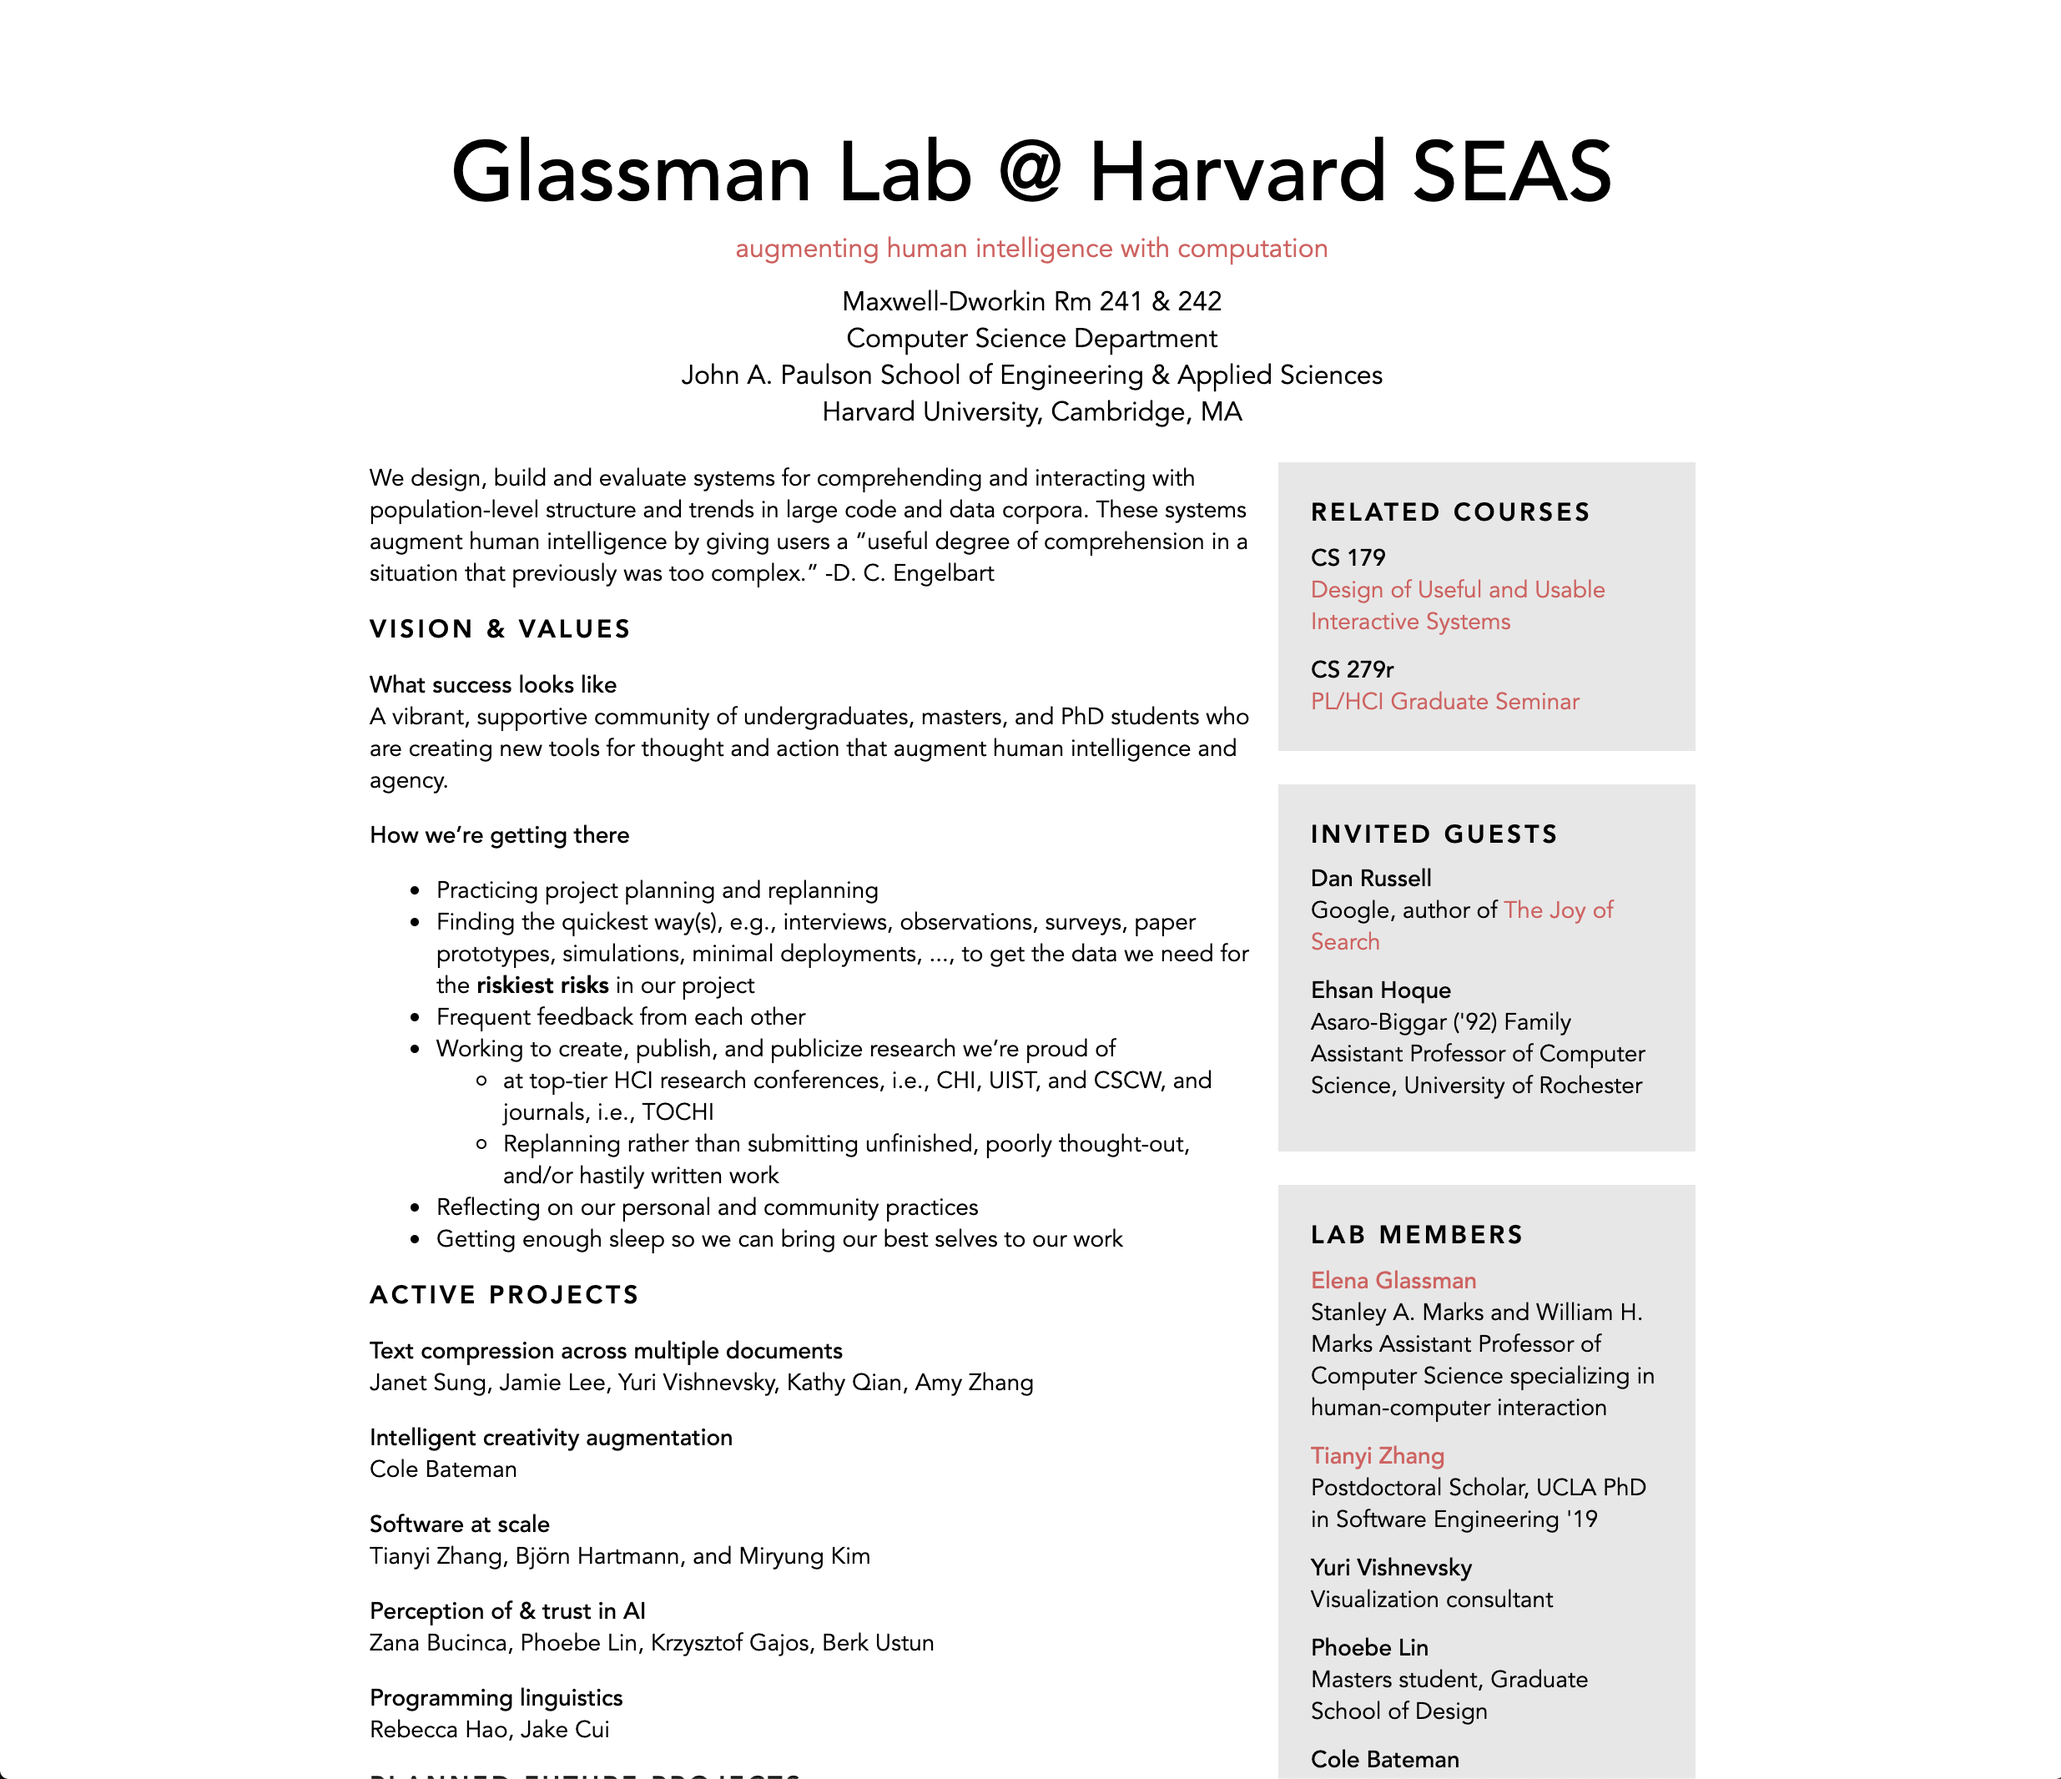
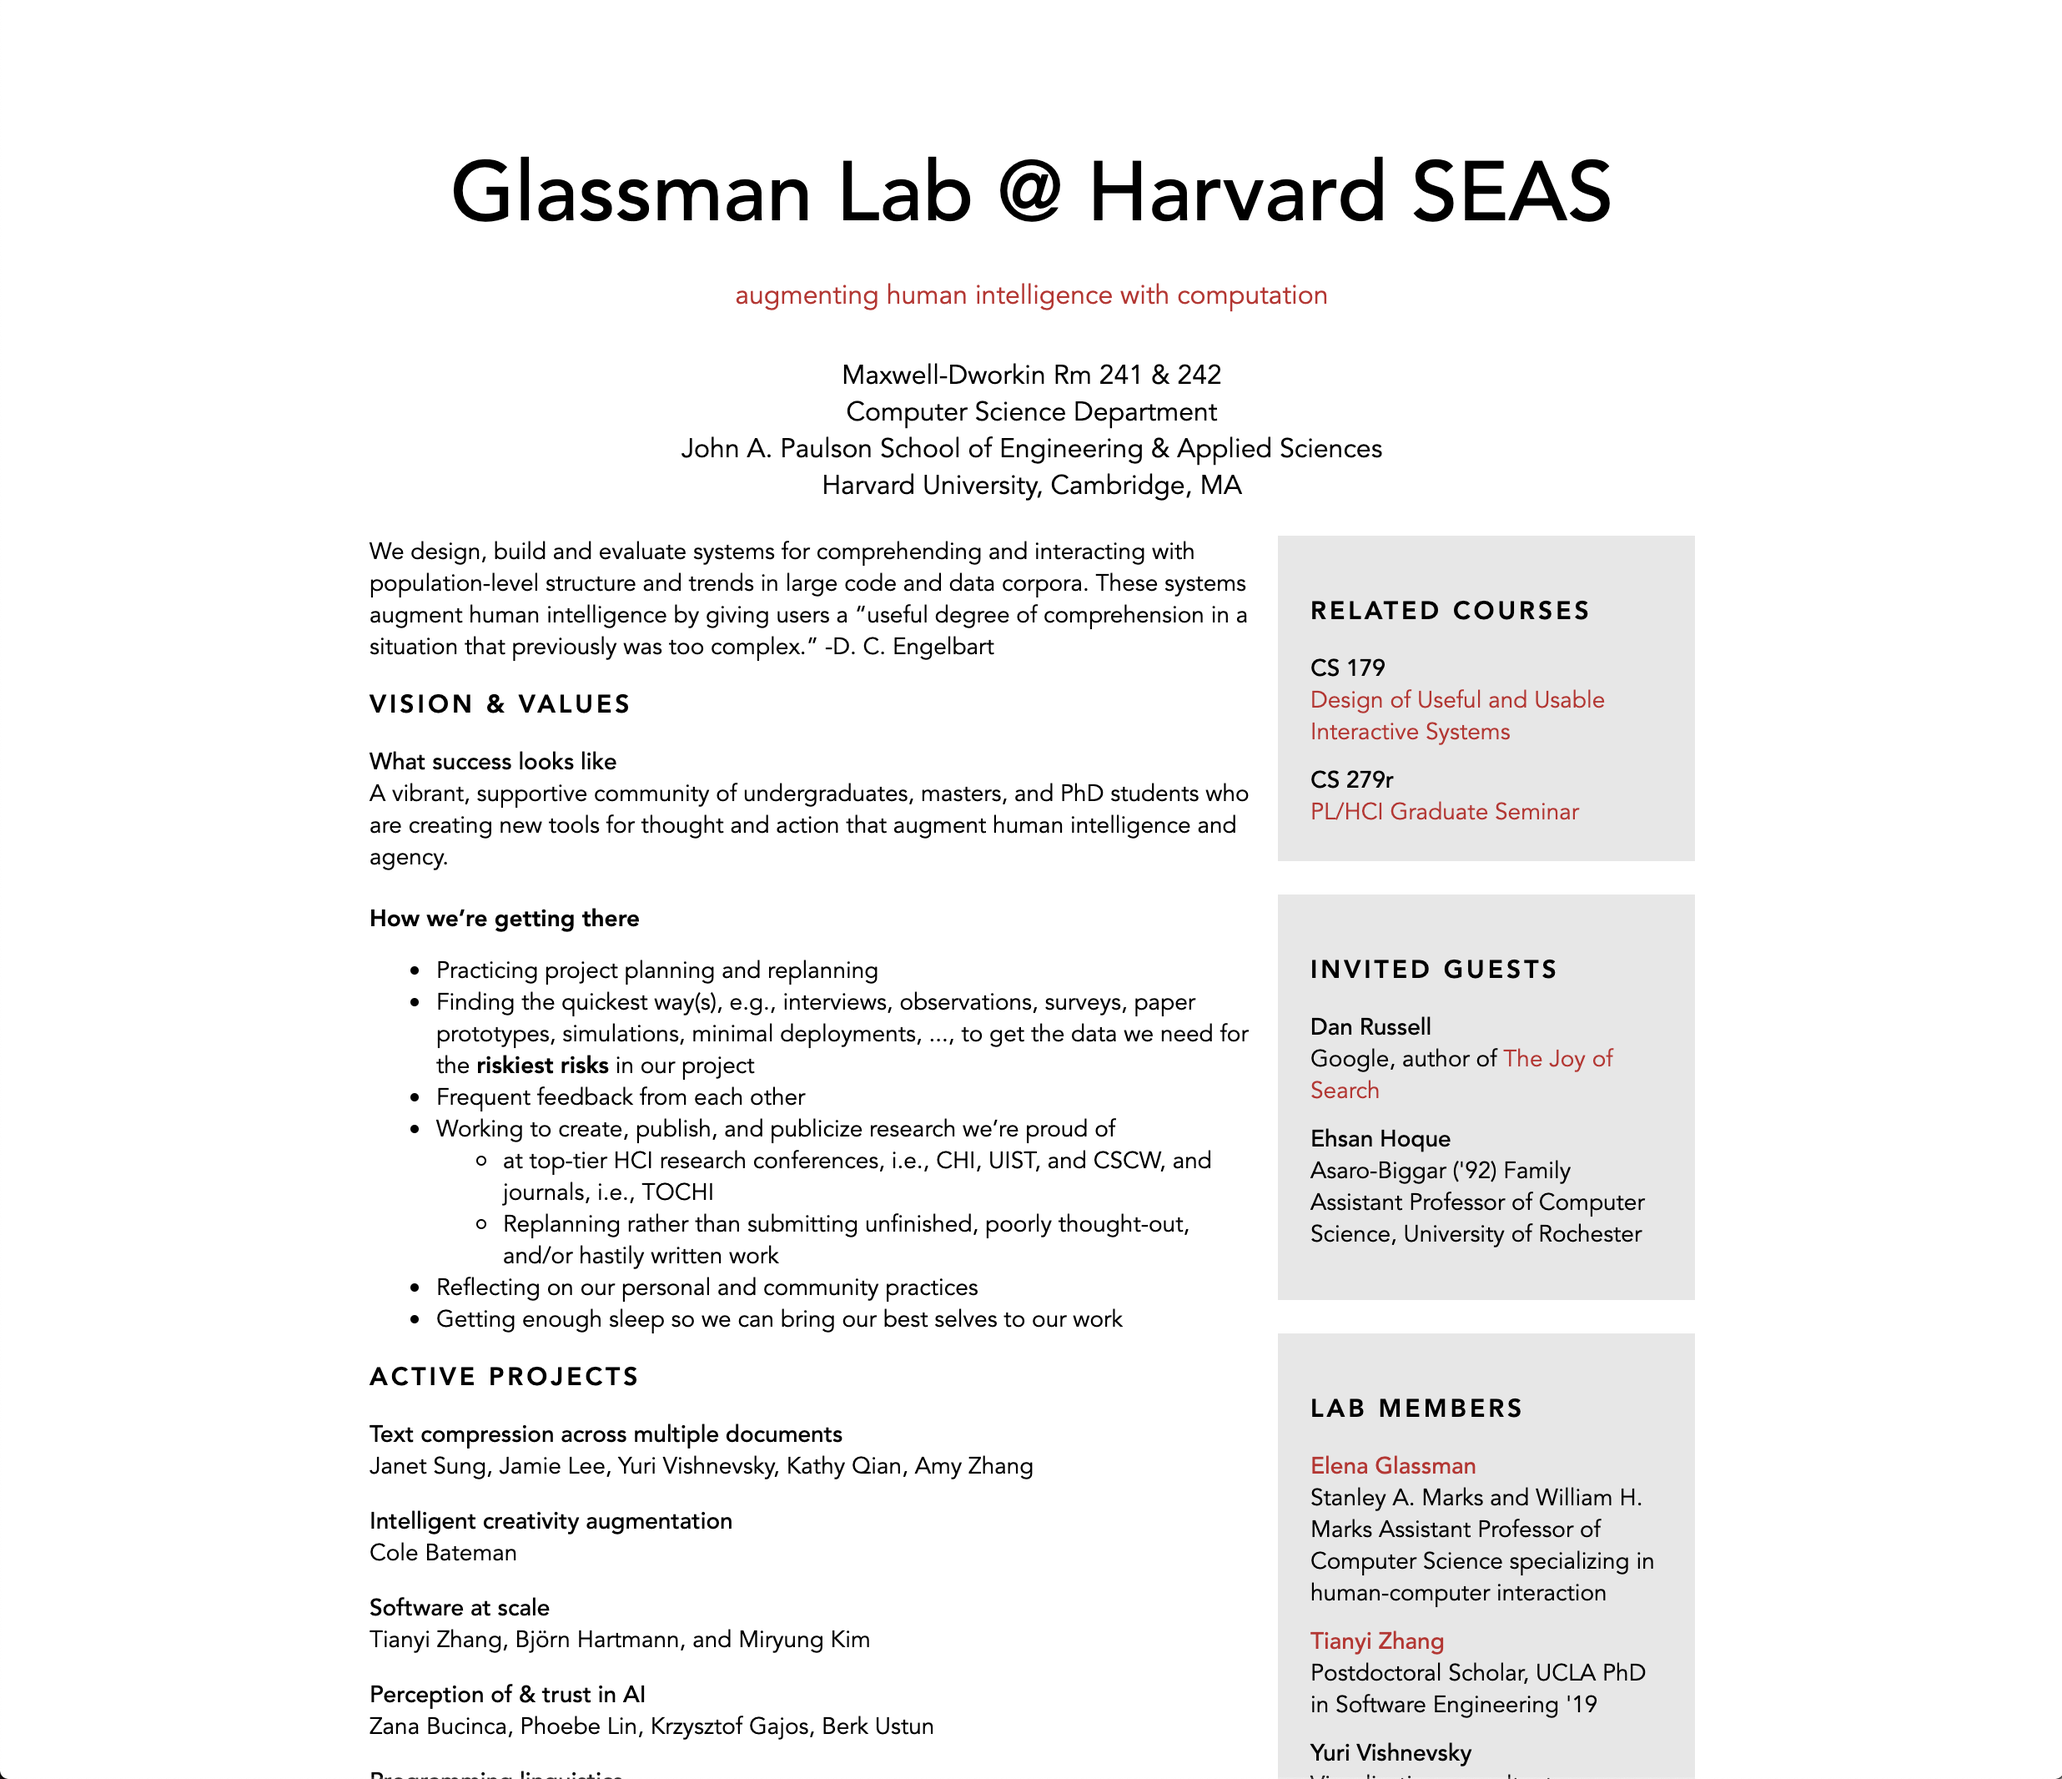
Add files via upload

Changed region(s): [[0.1559, 0.0619, 0.8105, 1.0], [0.4676, 0.7739, 0.4988, 0.8358]]

diff --git a/SEAS-Glassman/index.html b/SEAS-Glassman/index.html
@@ -1,4 +1,4 @@
-<!-- Current code of http://glassmanlab.seas.harvard.edu/ -->
+<!-- Proposed code of http://glassmanlab.seas.harvard.edu/ -->
 
 <html>
 
@@ -17,7 +17,36 @@
 
         <link rel="icon" type="image/png" href="./assets/images/logo2.png">
 
+        <style>
+            h2 {
+            font-size: 50px;
+            font-weight: 500;
+            margin-bottom: 0em;
+            }
 
+            h3 {
+                display: block;
+                font-size: 1em;
+                font-weight: normal;
+            }
+
+            h4 {
+            margin-bottom: -1.5em;
+            }
+            .uw {
+                font-weight: 500;
+                color: black;
+                margin-bottom: 0.15em;
+            }
+            .header h3{
+            font-weight: 600;
+            }
+
+            a {
+                color: #C2292C;
+                text-decoration: none;
+            }
+        </style>
     </head>
 
     <body>
@@ -28,8 +57,8 @@
         <div class="centered">
 
             <a href="/" class="nounderline">
-                <div class="big uw">Glassman Lab @ Harvard SEAS</div>
-                <div class="padding-bottom">augmenting human intelligence with computation</div>
+                <div class="big uw"><h2>Glassman Lab @ Harvard SEAS</h2></div>
+                <div class="padding-bottom"><h3>augmenting human intelligence with computation</h3></div>
             </a>
             <div class="padding-top">Maxwell-Dworkin Rm 241 &amp; 242</div>
             <!-- <div class="lessbold">
@@ -122,15 +151,15 @@
         </div> -->
 
                                 <div class="header lead top-padding">
-                                    Vision &amp; Values
+                                    <h3>Vision &amp; Values</h3>
                                 </div>
                                 <p>
-                                    <span class="slightlybold">What success looks like</span><br>
+                                    <span class="slightlybold"><h4>What success looks like</h4></span><br>
                                     A vibrant, supportive community of undergraduates, masters, and PhD students who are
                                     creating new tools for thought and action that augment human intelligence and agency.
                                 </p>
                                 <p>
-                                    <span class="slightlybold">How we’re getting there</span><br>
+                                    <span class="slightlybold"><h4>How we’re getting there</h4></span><br>
                                 </p>
                                 <ul>
                                     <li>Practicing project planning and replanning</li>
@@ -151,7 +180,7 @@
                                 <p></p>
 
                                 <div class="header lead top-padding">
-                                    Active Projects
+                                    <h3>Active Projects</h3>
                                 </div>
 
                                 <div>
@@ -189,7 +218,7 @@
         </p> -->
 
                                     <div class="header lead">
-                                        Planned Future Projects
+                                            <h3>Planned Future Projects</h3>
                                     </div>
                                     <p>
                                         <span class="slightlybold">Interfaces for exploring emergent structure in medical
@@ -209,7 +238,7 @@
 
 
                                 <div class="header lead">
-                                    Selected Publications
+                                    <h3>Selected Publications</h3>
                                 </div>
 
                                 <div>
@@ -267,7 +296,7 @@
 
                                 <div class="box">
                                     <div class="header lead">
-                                        Related Courses
+                                        <h3>Related Courses</h3>
                                     </div>
                                     <div class="margin-bottom">
                                         <div class="slightlybold">
@@ -290,7 +319,7 @@
 
                                 <div class="box">
                                     <div class="header lead">
-                                        Invited Guests
+                                        <h3>Invited Guests</h3>
                                     </div>
 
                                     <div class="margin-bottom">
@@ -316,7 +345,7 @@
 
                                 <div class="box">
                                     <div class="header lead">
-                                        Lab Members
+                                        <h3>Lab Members</h3>
                                     </div>
                                     <div class="margin-bottom">
                                         <div class="slightlybold">
@@ -393,7 +422,7 @@
                                     </div>
 
                                     <div class="header lead">
-                                        Lab Alumni
+                                        <h3>Lab Alumni</h3>
                                     </div>
                                     <div class="margin-bottom">
                                         <div class="slightlybold">
